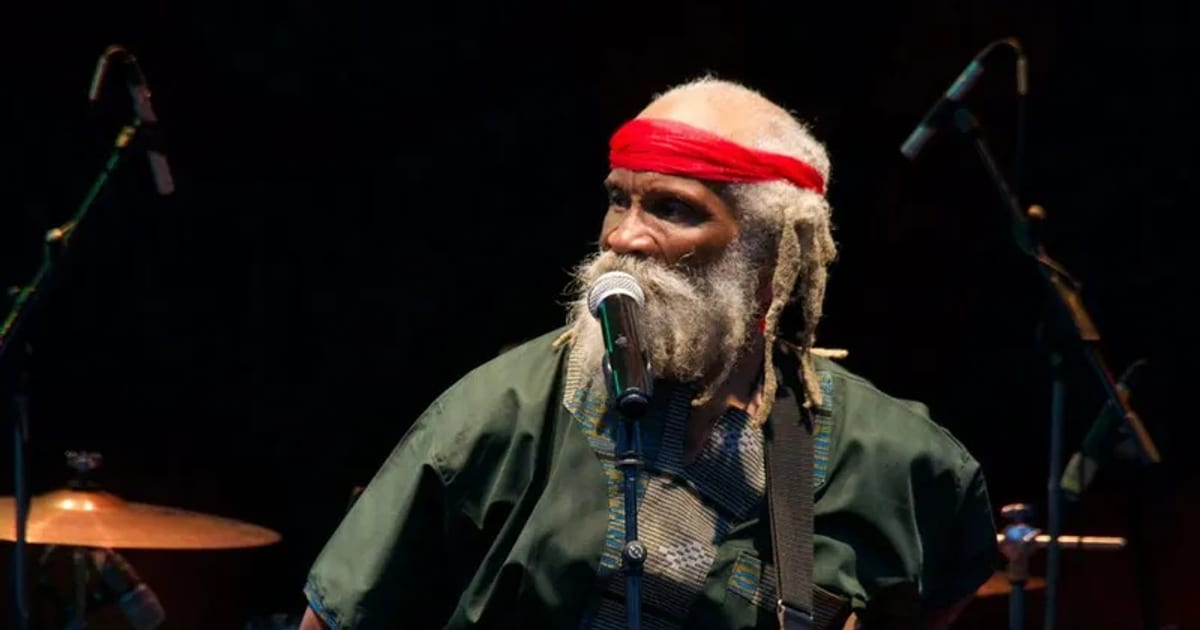
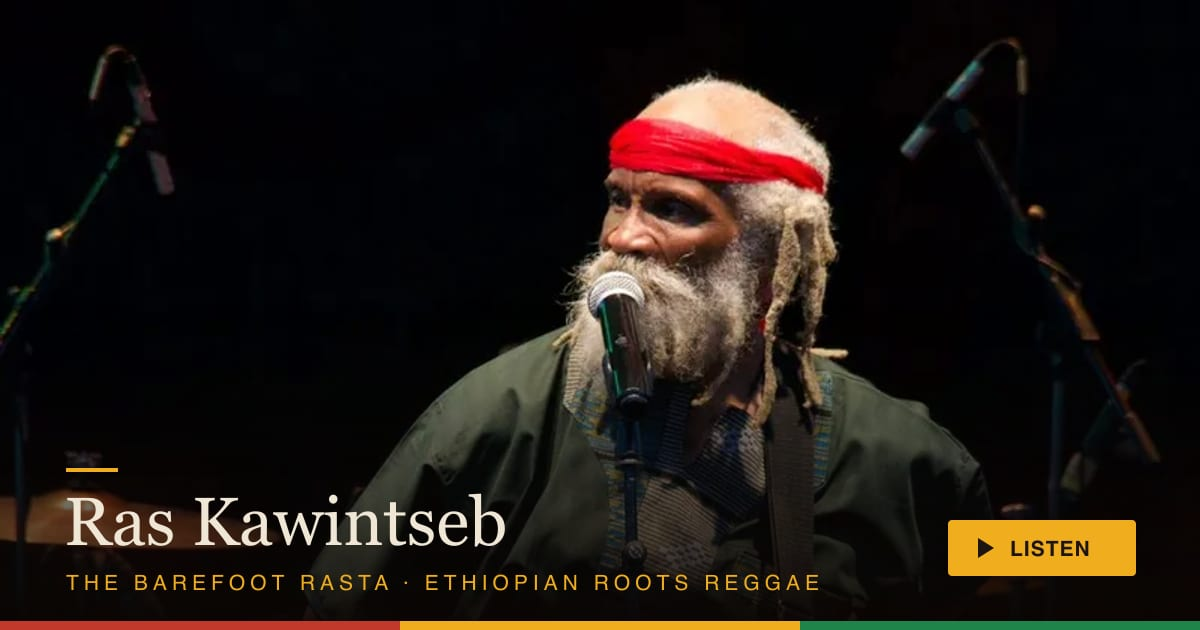
seo changes

Changed region(s): [[0.0, 0.5429, 1.0, 1.0], [0.8633, 0.7238, 0.925, 0.7841]]

diff --git a/index.html b/index.html
@@ -16,7 +16,7 @@
     <link rel="icon" type="image/svg+xml" href="/favicon.svg" />
     <link rel="icon" type="image/png" sizes="96x96" href="/favicon-96.png" />
     <link rel="apple-touch-icon" href="/apple-touch-icon.png" />
-    <link rel="manifest" href="/site.webmanifest" />
+    <link rel="manifest" href="/manifest.json" />
     <meta name="theme-color" content="#1C1411" />
 
     <!-- Open Graph (WhatsApp, Facebook, Instagram, Telegram) -->
